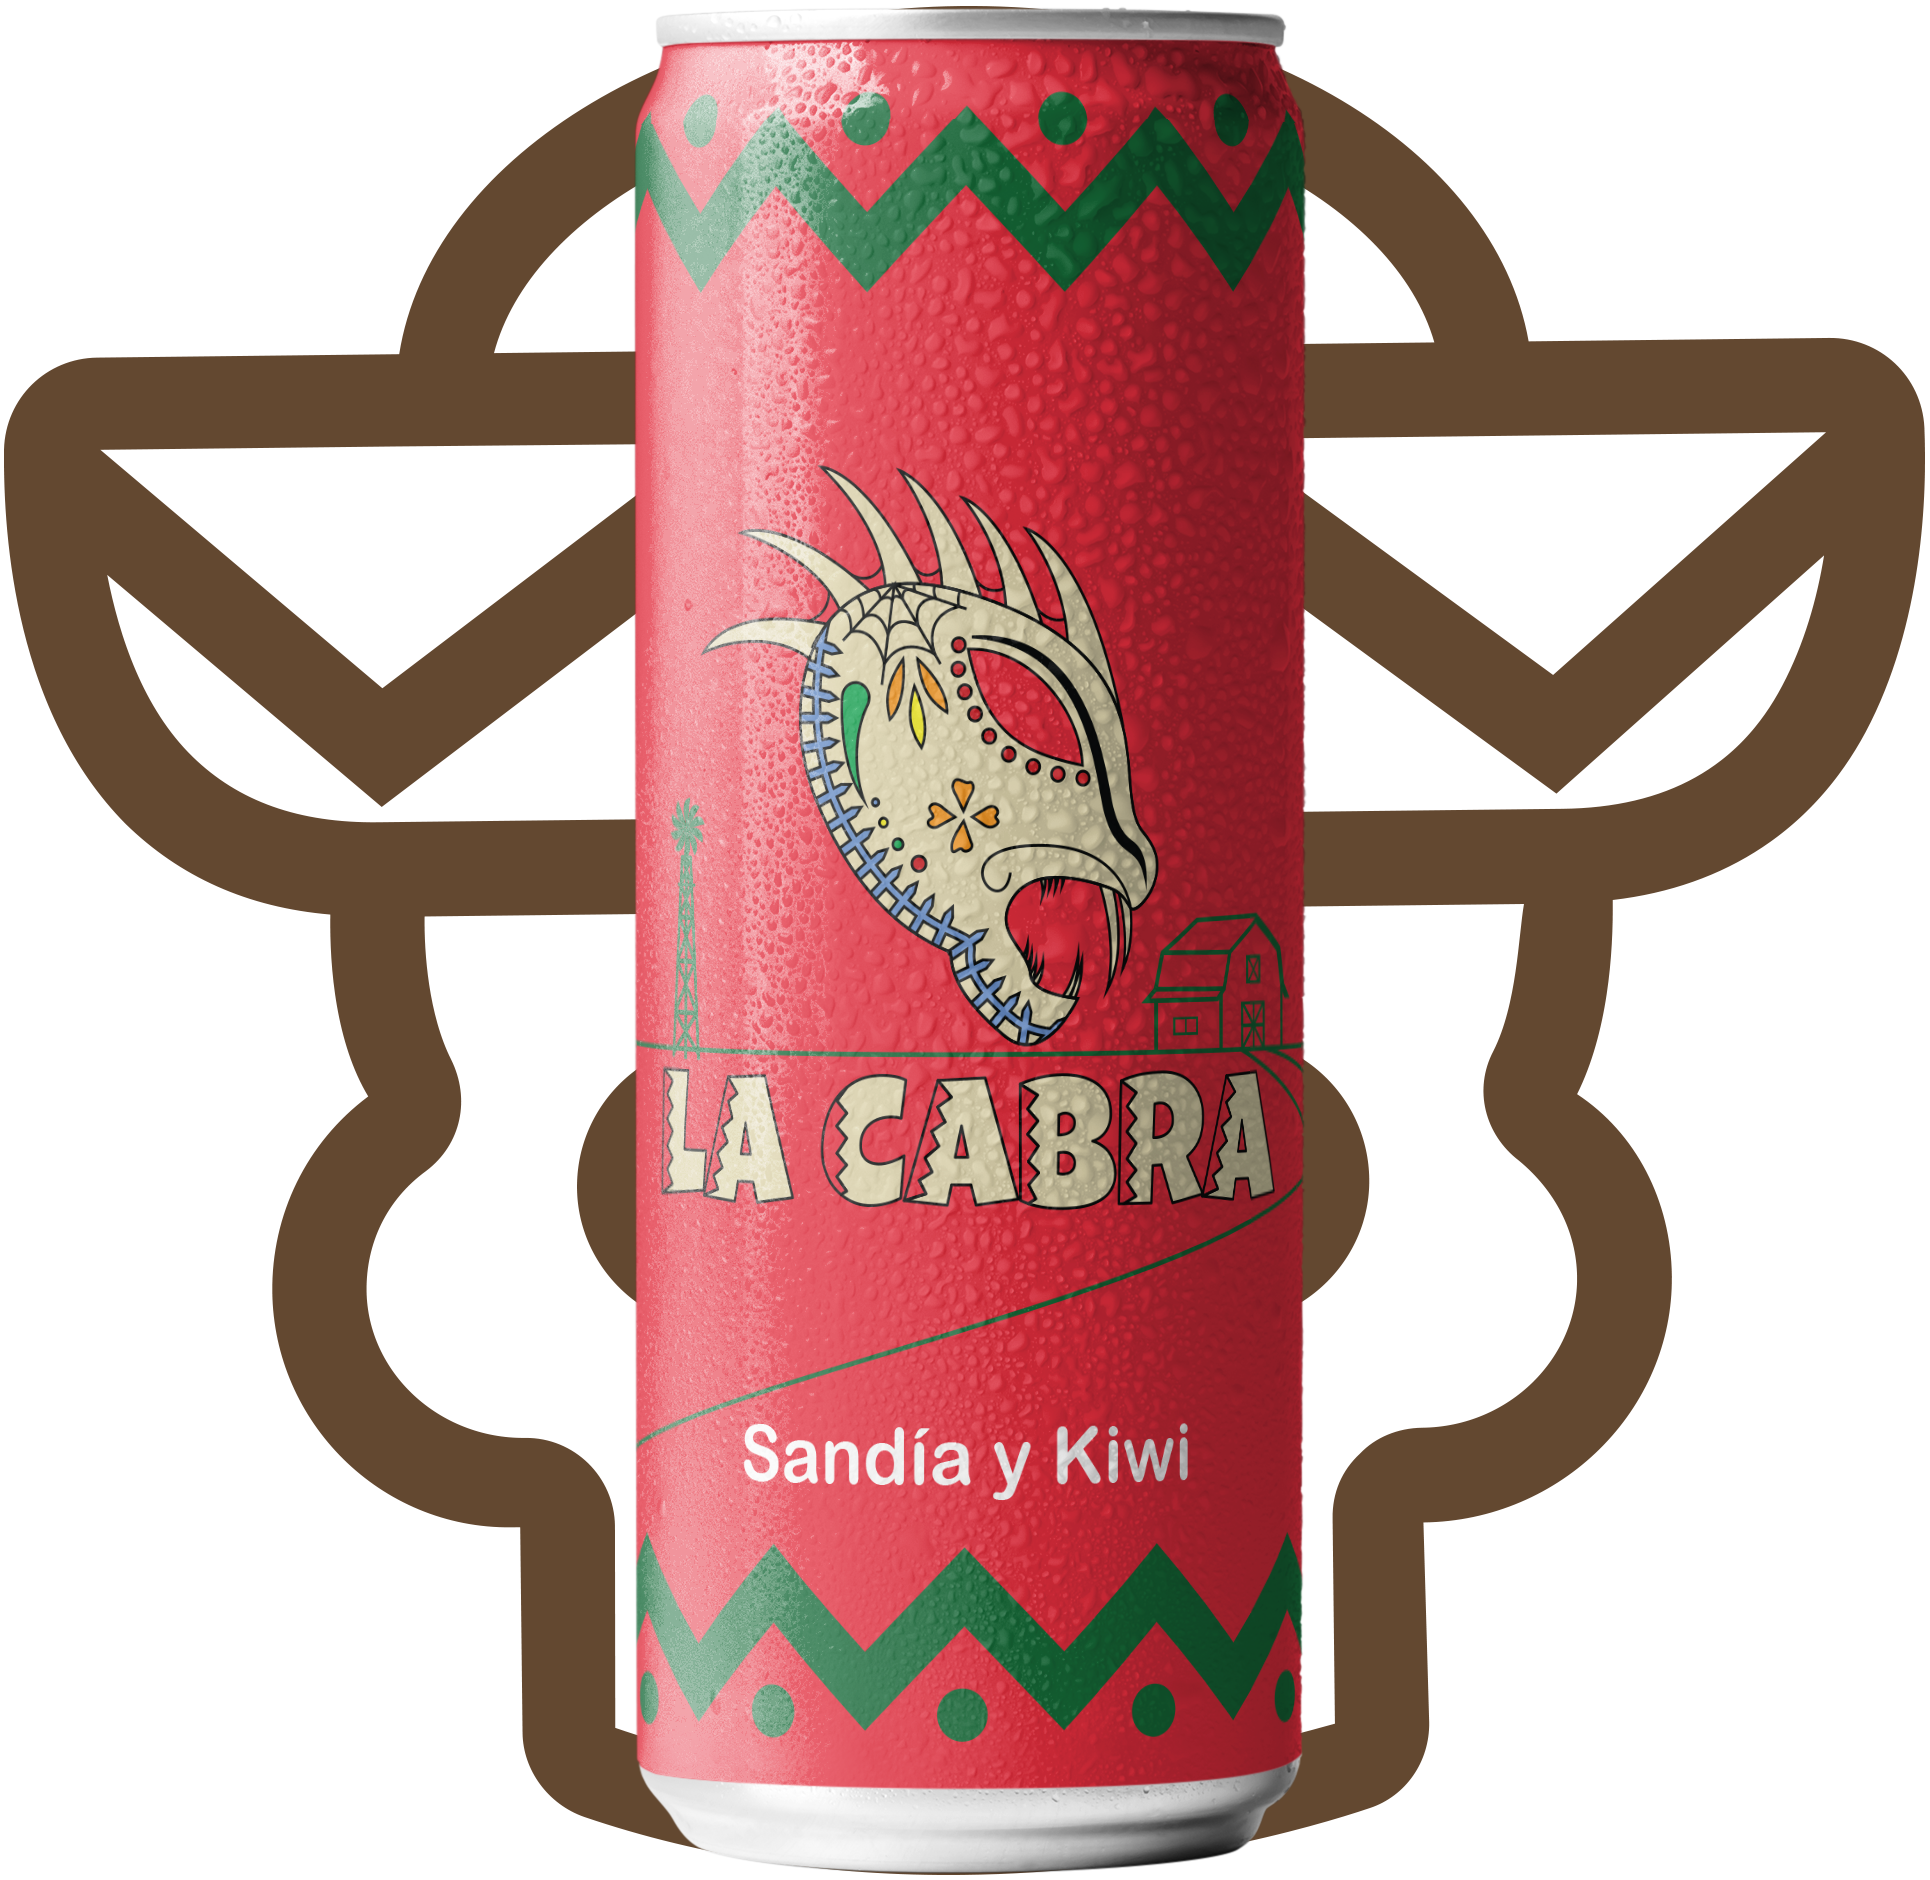
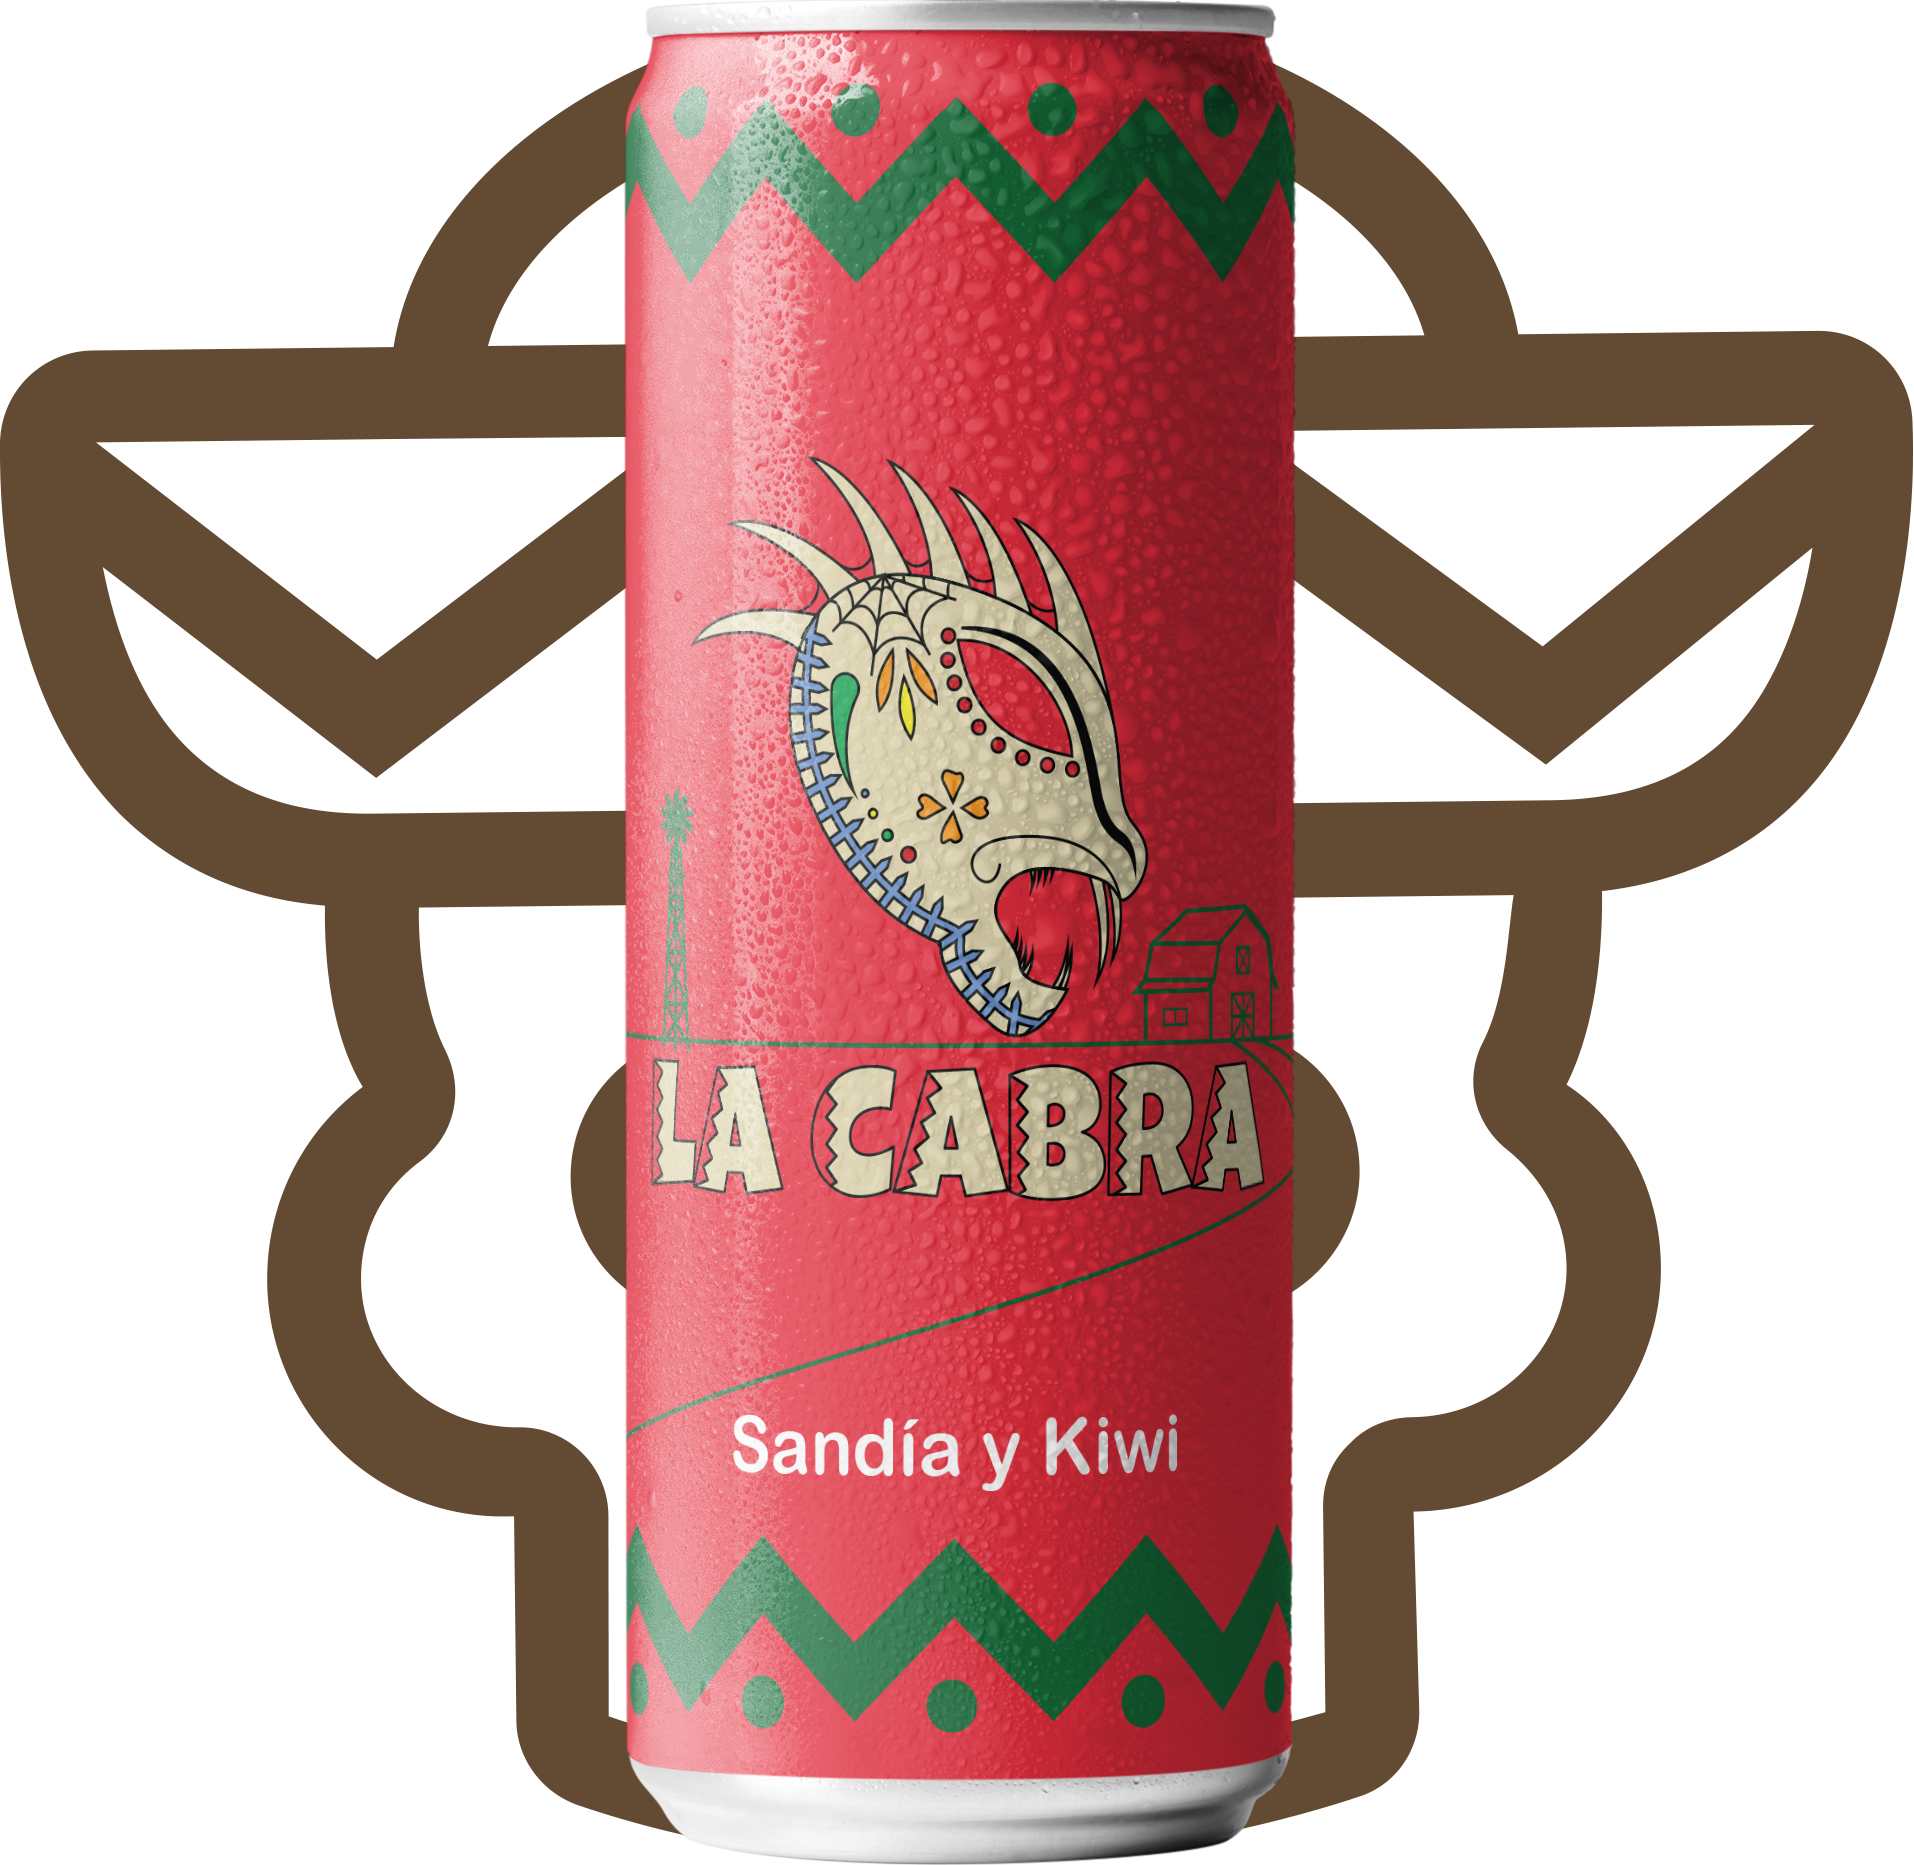
Add files via upload

diff --git a/index.html b/index.html
@@ -27,44 +27,59 @@
 <article>
 
   <div class= "display">
-	<img src="Drink_Display.png" class= "display1" width="1930" height="1880">
+	<img src="Drink_Display.png" class="display1" id="drinks" width="1914" height="1865">
   </div>
-
-  <div class= "display">
-	<img src="Drink_Red.png" class="display2" id="drinks" width="680" height="1880">
-</div>
 
   
  <div class="slogan">
+
 	<h2><span style="color:#3B6C4E;">CUÁNDO</span> LO NECESITÁS <span style="color:#B3272D;">MÁS</span></h2>
  	
-	<table cellspacing="70px" cellpadding="20px">
-		<th><a href="Product Page.html" class="button">Order Now!</a></th>
- </table>
+		<table cellspacing="70px" cellpadding="20px">
+			<th><a href="Product Page.html" class="button">Order Now!</a></th>
+		</table>
+
 </div>
- 
 
- <div class= "line">
+	
 	<img src="Green.png" class="line" width="12859" height="748">
- </div>
-	
 
-   <img src="Drink_Pink2.png" class="about" width="1084" height="1925">
- </div>
-  
- <h2><span style="color:#3B6C4E;">Ab</span>out <span style="color:#B3272D;">Us</span></h2>
+<div>	
+ 	<img src="Drink_Pink2.png" class="about" width="1084" height="1925">
 
-	<p> Lorem ipsum dolor sit amet, consectetuer adipiscing elit, sed diam nonummy nibh euismod tincidunt ut laoreet dolore magna aliquam erat volutpat. Ut wisi enim ad minim veniam, quis nostrud exerci tation ullamcorper suscipit lobortis nisl ut aliquip ex ea commodo consequat. Duis autem vel eum iriure dolor in hendrerit in vulputate velit esse molestie consequat, vel illum dolore eu feugiat nulla facilisis at vero eros et accumsan et iusto odio dignissim qui blandit praesent luptatum zzril delenit augue duis dolore te feugait nulla facilisi.</p>
  
-	<p>Lorem ipsum dolor sit amet, cons ectetuer adipiscing elit, sed diam nonummy nibh euismod tincidunt ut laoreet dolore magna aliquam erat volutpat. Ut wisi enim ad minim veniam, quis nostrud exerci tation ullamcorper suscipit lobortis nisl ut aliquip ex ea commodo consequat.</p>
-	
-<table cellspacing="70px" cellpadding="20px">
- <tr>
-	<th><a href="Contact Page.html" class="button">Sign Up</a></th>
- </tr>	
+<h2><span style="color:#3B6C4E;">Ab</span>out <span style="color:#B3272D;">Us</span></h2>
+
+ 
+	<p>La Cabra was founded in October 3, 2022 by Kevin S. Reyes. Inspired by the Latin American folklore creature “la chupacabra” and the sugar skulls in Mexican culture. Like the culture we were inspired by, we value family and friends, so we made an energy drink that is invigorating and healthy. With the use of fruit juice and no artificial flavoring and sugar we are giving our customers a high quality energy drink that helps keep the blood going.</p>
+<div>	
+
+<table cellspacing="60px" cellpadding="40px">
+	<tr>
+		<th><a href="Contact Page.html" class="button">Any Questions?</a></th>
+	</tr>	
 </table>
 
 </article>
+
+
+<div class="footer">
+
+<table class="info" cellspacing="50px">
+<tr>
+	<td><a href="https://drive.google.com/drive/folders/1goWz0oXWTz0e-NDa-lAuYRxmEBovJ_RL?usp=sharing" class="info" >PORTFOLIO</a></td>
+	<td> LEGAL</td> 
+	<td>FOLLOW US</td>
+</tr>
+
+<tr>
+	<td><a href="#" class="info" >About Me</a></td>
+	<td><a href="#" class="info" >Terms of Use</td> 
+	<td><a href="#" class="info" >Instagram</td>
+</tr>
+
+</table>
+</div>
 
 </body>
 

diff --git a/Product Page.html b/Product Page.html
@@ -4,7 +4,7 @@
 	<meta charset="UTF-8">
 	<meta http-equiv="X-UA-Compatible" content="IE=edge">
 	<meta name="viewport" content="width=device-width, initial-scale=1.0">
-	<title>Contact</title>
+	<title>Product</title>
 	<link rel="stylesheet" href="styles.css">
 	<script src="Javascript.js"></script>
 </head>
@@ -29,20 +29,28 @@
 
 <h5><span style="color:#3B6C4E;">Pro</span>du<span style="color:#B3272D;">ct</span></h5>
 
-<table cellpadding="100px" cellspacing="100px">
+<table cellpadding="10px" cellspacing="100px" class="product">
 
 	 <tr>
-		<th><img src="Drink_Red.png" class="product" width="680" height="1870"></th>
-		<th><img src="Drink_Pink.png" class="product" width="680" height="1870"></th>
-		<th><img src="Drink_Green.png" class="product" width="680" height="1870"></th>
-		<th><img src="Drink_Purple.png" class="product" width="680" height="1870"></th>
-	 </tr>
+		<td><img src="Drink_Red.png" class="" width="680" height="1870"></td>
+		<td><img src="Drink_Green.png" class="" width="680" height="1870"></td>
+	</tr>
+
 	 <tr>
-		<td><a href="Product Page" class="button1">Watermelon & Kiwi</a></td>
-		<td><a href="Product Page" class="button1">Strawberry & Banana</a></td>
-		<td><a href="Product Page" class="button1">Pear & Mango</a></td>
-		<td><a href="Product Page" class="button1">Grapes & Grapefruit</a></td>
+		<td><a href="#" class="button1">Watermelon & Kiwi</a></td>
+		<td><a href="#" class="button1">Pear & Mango</a></td>
+	</tr>
+
+	<tr>
+		<td><img src="Drink_Pink.png" class="" width="680" height="1870"></td>
+		<td><img src="Drink_Purple.png" class="" width="680" height="1870"></td>
 	 </tr>
+
+	<tr>
+		<td><a href="#" class="button1">Strawberry & Banana</a></td>
+		<td><a href="#" class="button1">Grapes & Grapefruit</a></td>
+	 </tr>
+
 	</table>
 
  <div class= "line">
@@ -50,6 +58,24 @@
  </div>
  
 </article>
+
+<div class="footer">
+
+<table class="info" cellspacing="50px">
+<tr>
+	<td><a href="https://drive.google.com/drive/folders/1goWz0oXWTz0e-NDa-lAuYRxmEBovJ_RL?usp=sharing" class="info" >PORTFOLIO</a></td>
+	<td> LEGAL</td> 
+	<td>FOLLOW US</td>
+</tr>
+
+<tr>
+	<td><a href="#" class="info" >About Me</a></td>
+	<td><a href="#" class="info" >Terms of Use</td> 
+	<td><a href="#" class="info" >Instagram</td>
+</tr>
+
+</table>
+</div>
 </body>
 
 </html>

diff --git a/styles.css b/styles.css
@@ -6,19 +6,18 @@ body{
 nav{
 	color: #FFFFFF;
 	font-family: Arial;
-	font-size: 141px;
 }
 
 h1{
 	color: #FFFFFF;
 	font-family: Luckiest Guy;
-	font-size: 100px
+	font-size: 100px;
 	
 }
 h2{
 	color: #FFFFFF;
 	font-family: Luckiest Guy;
-	font-size: 170px;
+	font-size: 150px;
 	position: relative;
 	left: 80px;
 }
@@ -31,7 +30,7 @@ h3{
 h4{
 	color: #FFFFFF;
 	font-family: Arial;
-	font-size: 80px;
+	font-size: 60px;
 	position: relative;
 	left: 100px;
 }
@@ -39,14 +38,15 @@ h4{
 h5{
 	color: #FFFFFF;
 	font-family: Luckiest Guy;
-	font-size: 170px;
+	font-size: 150px;
 	text-align: center;
 }
+
 
 h6{
 	color: #FFFFFF;
 	font-family: Arial;
-	font-size: 100px;
+	font-size: 150px;
 	text-align: center;
 }
 
@@ -62,7 +62,7 @@ p{
 th{
 	color: #FFFFFF;
 	font-family: Arial;
-	font-size: 53px;
+	font-size: 40px;
 	border-collapse: separate;
 }
 
@@ -91,23 +91,18 @@ th{
 .slogan{
 	text-align:left;
 	width:1200px;
-	height:1150px;
+	height:1200px;
 	position: relative;
 	top: 220px;
 }
 
 .display{
 	position: absolute;
-	left:1400px;
+	left:1300px;
 }
 
 .display1{
-	width: 100%;
-	height: auto;
-}
-
-.display2{
-	width: 60%;
+	width: 90%;
 	height: auto;
 }
 
@@ -117,11 +112,10 @@ th{
 }
 
 .about{
-	width: 30%;
+	width: 23%;
 	height: auto;
 	position: absolute;
 	right: 100px;
-
 }
 
 div.message{
@@ -157,11 +151,29 @@ div.message{
 }
 
 .product{
-
 	text-align: center;
 	width: 100%;
 	height: auto;
 }
 
 
+.footer{
+    background-color: #A96930;
+	width: 100%;
+	height: 500px;
+	position: relative;
+	top: 20px;
+	text-align: center;
+	font-family: arial;
+	color: #FFFFFF;
 
+}
+
+.info{
+	font-family: arial;
+	color: #FFFFFF;
+	width: 100%;
+	font-size: 50px;
+	text-align: center;
+	padding: 8px;
+}

diff --git a/Promotion Page.html b/Promotion Page.html
@@ -4,7 +4,7 @@
 	<meta charset="UTF-8">
 	<meta http-equiv="X-UA-Compatible" content="IE=edge">
 	<meta name="viewport" content="width=device-width, initial-scale=1.0">
-	<title>Contact</title>
+	<title>Peomotion</title>
 	<link rel="stylesheet" href="styles.css">
 	<script src="Javascript.js"></script>
 </head>
@@ -33,20 +33,40 @@
 	<a href="https://www.behance.net/gallery/155066217/La-Cabra-Energy-Drink" class="button"><img src="La Cabra.png" class="ad_1" width="2101" height="1312"></a>
 </div>
 
-
 <div>
 	<img src="ad.png" class="ad_2" width="1979" height="3736"></a>
 </div>
 
 	<img src="Yellow.png" class="line" width="12859" height="748">
 
+
 <h6>SEE MORE FROM ME</h6>
+
 
 <div>
 	<a href="https://www.behance.net/gallery/155560191/Crea-Tea" class="button"><img src="Crea-Tea.png" class="ad_3" width="2101" height="1312"></a>
 </div>
  
 </article>
+
+<div class="footer">
+
+<table class="info" cellspacing="50px">
+<tr>
+	<td><a href="https://drive.google.com/drive/folders/1goWz0oXWTz0e-NDa-lAuYRxmEBovJ_RL?usp=sharing" class="info" >PORTFOLIO</a></td>
+	<td> LEGAL</td> 
+	<td>FOLLOW US</td>
+</tr>
+
+<tr>
+	<td><a href="#" class="info" >About Me</a></td>
+	<td><a href="#" class="info" >Terms of Use</td> 
+	<td><a href="#" class="info" >Instagram</td>
+</tr>
+
+</table>
+</div>
+
 </body>
 
 </html>

diff --git a/Contact Page.html b/Contact Page.html
@@ -42,7 +42,7 @@
 <h4>PERSONAL INFORMATION</h4>
 
 
-	<table cellspacing="200px">
+	<table cellspacing="100px">
 	  <tr>
 		<th><label for="fname">FIRST NAME<span style="color:#B3272D;">*</label></span></th>
 		<th><label for="lname">LAST NAME<span style="color:#B3272D;">*</label></span></th>
@@ -54,9 +54,6 @@
 		<td><input type="text" id="email" name="email" value=""></td>
 	</table>
 </form> 
- <div class= "line">
-	<img src="Red.png" class="line" width="12859" height="748">
- </div>
  
  <div class="message"></th>
  <input type="messages" id="messages" name="messages" value="Message"><span style="color:#B3272D;">*</span>
@@ -66,8 +63,28 @@
 	<tr>
 		<td><a href="Product Page" class="button2">Submit Entry</a></td>
  </table>
+
+	<img src="Red.png" class="line" width="12859" height="748">
  
 </article>
+
+<div class="footer">
+
+<table class="info" cellspacing="50px">
+<tr>
+	<td><a href="https://drive.google.com/drive/folders/1goWz0oXWTz0e-NDa-lAuYRxmEBovJ_RL?usp=sharing" class="info" >PORTFOLIO</a></td>
+	<td> LEGAL</td> 
+	<td>FOLLOW US</td>
+</tr>
+
+<tr>
+	<td><a href="#" class="info" >About Me</a></td>
+	<td><a href="#" class="info" >Terms of Use</td> 
+	<td><a href="#" class="info" >Instagram</td>
+</tr>
+
+</table>
+</div>
 </body>
 
 </html>

diff --git a/Javascript.js b/Javascript.js
@@ -1,6 +1,6 @@
 window.onload = rotate;
 var thePic = 0;
-var arrMyPix = new Array("Drink_Red.png", "Drink_Green.png", "Drink_Pink.png", "Drink_Purple.png");
+var arrMyPix = new Array("Drink_Display.png", "Green_Display.png", "Pink_Display.png", "Purple_Display.png");
 
 function rotate(){
     thePic++;
